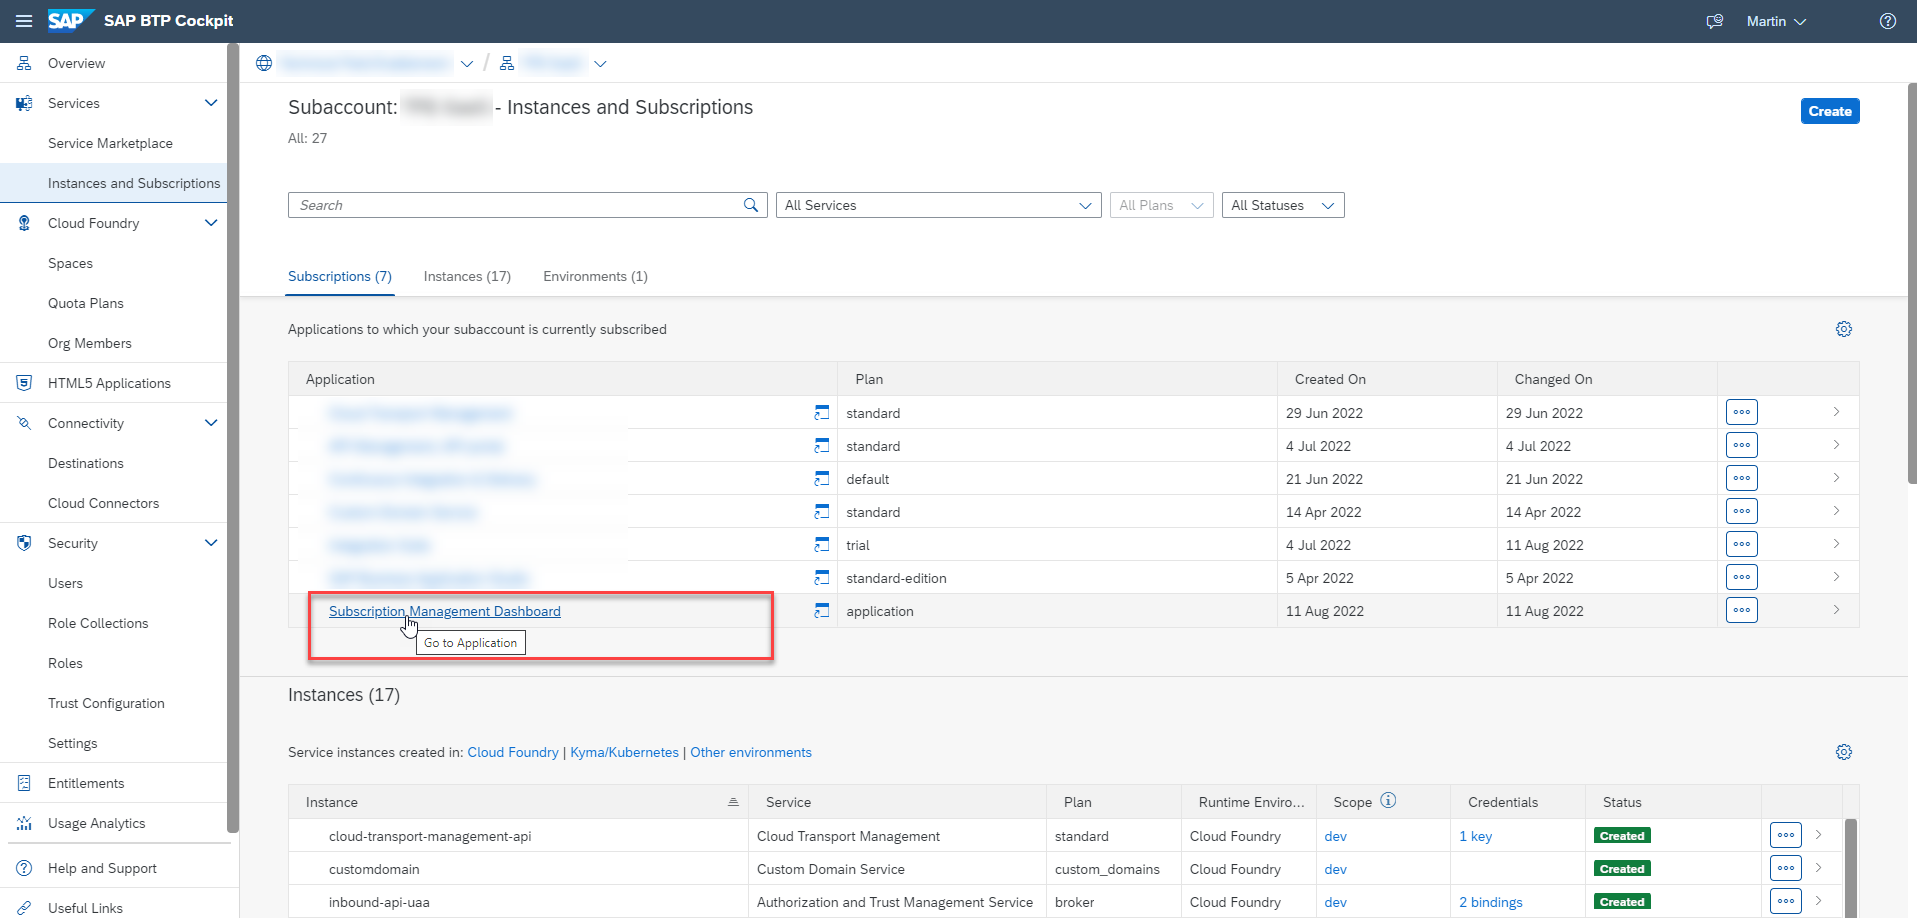
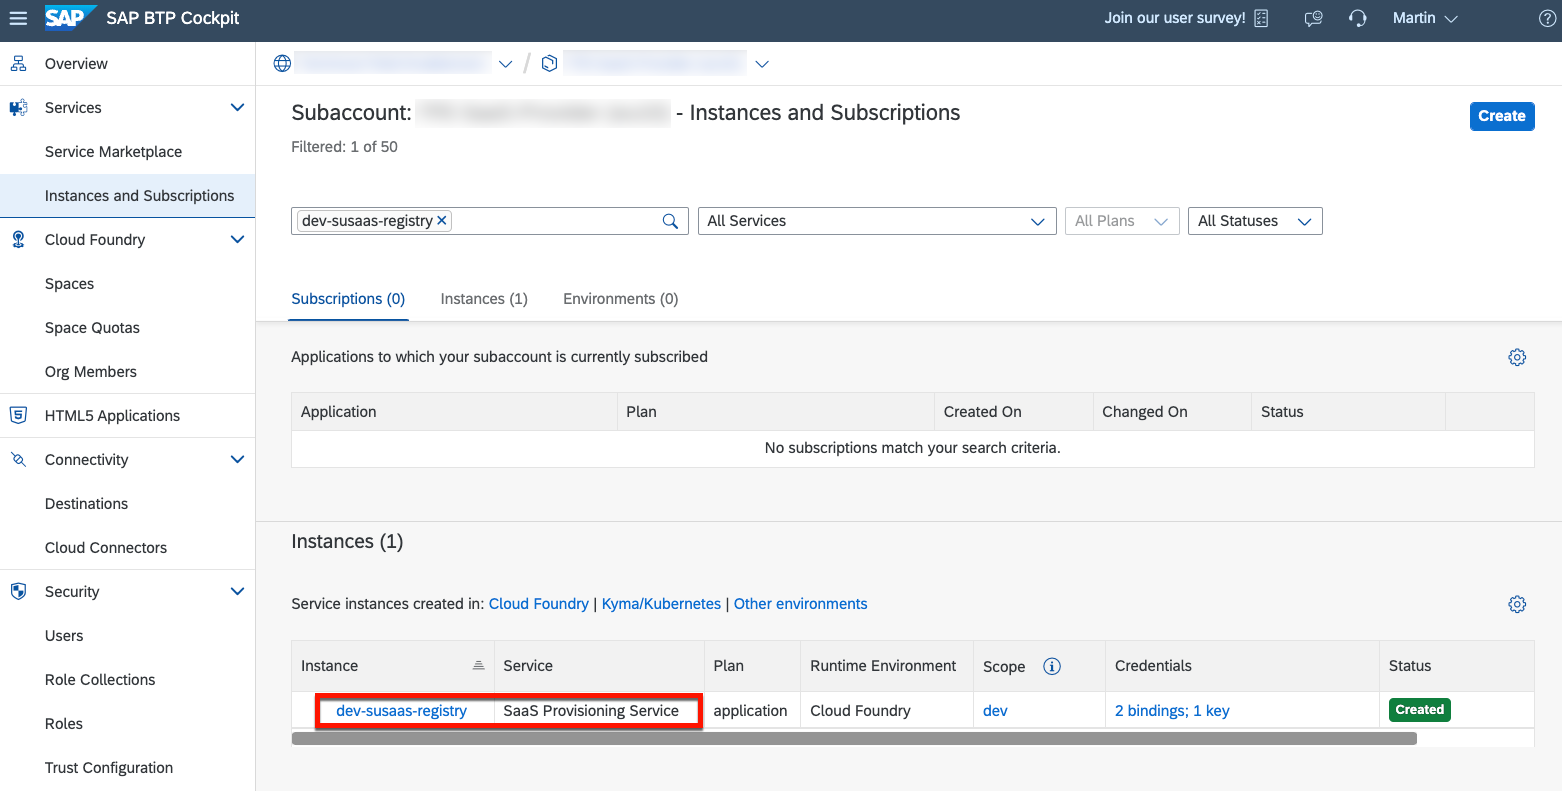
Update HDI expert chapters

diff --git a/docu/4-expert/backup-database-containers/README.md b/docu/4-expert/backup-database-containers/README.md
@@ -3,11 +3,9 @@
 - **Kyma** ✅
 - **Cloud Foundry** ✅
 
-> **Hint** - This Expert Feature requires refactoring and some screenshots and steps might be outdated. 
-
 This part of the **Expert Features** explains how to export and import SAP HANA Cloud HDI (HANA Deployment Infrastructure) containers in a SaaS scenario. This can be useful to back up your subscriber data on a regular basis. Please be aware that the import process will overwrite the content of your target container. For this reason also make sure, not to apply incompatible database changes between the backup and import of a container. 
 
-Before approaching this part of the **Expert Features**, please make sure to set up a new HDI Container Group Administrator first as described in the following part of the Expert Features ([Manage Tenant Database Containers](../manage-tenant-containers/README.md)) and use the respective user for the steps below.
+Before approaching this part of the **Expert Features**, please make sure to set up a new HDI Container Group Administrator first as described in the following part of the Expert Features ([HDI Container Administration](../hdi-container-administration/README.md)) and use the respective user for the steps below.
 
 - [Backup SAP HANA Cloud Database Containers](#backup-sap-hana-cloud-database-containers)
   - [1. Introduction](#1-introduction)
@@ -50,7 +48,7 @@ Especially for the last prerequisite, please check the [Dependencies and privile
 
 ## 3. Export an existing container
 
-3.1. Find the ID of the consumer tenant of which you want to export using the Subscription Management Dashboard.
+3.1. Find the ID of the consumer tenant of which you want to export using the SAP BTP Subscription Management Dashboard. Click on your SaaS Registry service instance to open the Dashboard. 
 
 [<img src="./images/export_010.png" width="500" />](./images/export_010.png?raw=true)
 
@@ -64,15 +62,26 @@ Especially for the last prerequisite, please check the [Dependencies and privile
 
 [<img src="./images/export_040.png" width="500" />](./images/export_040.png?raw=true)
 
-3.4. Go to SAP HANA Database Explorer and log in with an HDI Container (Group) Admin of the database container you want to export (see Prerequisites section). 
+3.4. Go to the **SAP HANA Database Explorer** and log in with an HDI Container (Group) Admin (e.g., **SUSAAS_OPS**) of the database container you want to export (see Prerequisites section). 
+
+> **Hint** - Go to your **SAP HANA Tools** to find the link to your **Database Explorer** by clicking on the **...** button next to your SAP HANA Cloud Instance. <br>
+> [<img src="./images/export_050a.png" width="200" />](./images/export_050a.png?raw=true)
 
 [<img src="./images/export_050.png" width="500" />](./images/export_050.png?raw=true)
 
+If you are already logged in with another user, please do a right-click on the root of your existing database connection and click on **Add database with different user**. This will allow you to define a new database connection (see screenshots). 
+
+[<img src="./images/add_conn_01.png" height="100" />](./images/add_conn_01.png?raw=true)
+[<img src="./images/add_conn_02.png" height="100" />](./images/add_conn_02.png?raw=true)
+[<img src="./images/add_conn_03.png" height="100" />](./images/add_conn_03.png?raw=true)
+
 3.5. Right-click the root of this user's database connection and select **Export HDI Container**. 
 
-[<img src="./images/export_060.png" width="500" />](./images/export_060.png?raw=true)
+[<img src="./images/export_060.png" width="200" />](./images/export_060.png?raw=true)
 
-3.6. Search for the schema name which you identified in the service key of the corresponding Service Manager container instance. 
+3.6. Select the **Local** export target and search for the schema name which you identified in the service key of the corresponding Service Manager container instance. 
+
+[<img src="./images/export_070a.png" width="500" />](./images/export_070a.png?raw=true) 
 
 [<img src="./images/export_070.png" width="500" />](./images/export_070.png?raw=true)
 
@@ -107,7 +116,7 @@ Especially for the last prerequisite, please check the [Dependencies and privile
 
 4.1. Go to SAP HANA Database Explorer and log in with an HDI Container (Group) Admin of the container you want to restore your backup in. 
 
-> **Important** - The database container in which you want to restore your backup, already has to exist before doing the following steps! Also, check the next chapter to learn about pre-import prerequisites in case of cross-container-access scenarios!
+> **Important** - The database container in which you want to restore your backup, already has to exist before doing the following steps! Also, check the next chapter ([click here](#5-dependencies-and-privileges)) to learn about pre-import prerequisites in case of cross-container-access scenarios!
 
 [<img src="./images/import_005.png" width="500" />](./images/import_005.png?raw=true)
 
@@ -115,7 +124,7 @@ Especially for the last prerequisite, please check the [Dependencies and privile
 
 [<img src="./images/import_010.png" width="500" />](./images/import_010.png?raw=true)
 
-4.3. Click on **Browse** to select the archived database container content from your hard disk.
+4.3. Select the **Local** Import Source and in the next step click on **Browse** to select the archived database container content from your hard disk.
 
 [<img src="./images/import_020.png" width="500" />](./images/import_020.png?raw=true)
 

diff --git a/docu/4-expert/manage-tenant-containers/README.md b/docu/4-expert/manage-tenant-containers/README.md
@@ -19,7 +19,7 @@ Please also check out the blog post by Andrew Lunde which is part of the **Furth
 
 The demonstrated approach explains how to access a tenant database container with a so-called technical **Runtime user**. This user has extensive permissions to interact with the underlying database schema and the presented access should only be used in very exceptional scenarios! This technical user is able to modify any data in a tenant container and to create and drop schema objects using plain SQL commands. 
 
-> **Hint** - If you want to adapt the permissions of this default access role assigned to Runtime users, please read the following SAP Help documentation ([click here](https://help.sap.com/docs/HANA_CLOUD_DATABASE/b9902c314aef4afb8f7a29bf8c5b37b3/9235c9dd8dbf410f915ffe305296a032.html?locale=en-US)). Please keep in mind, this will also restrict the permissions of the Runtime user used by the Service Manager when accessing the tenant database containers. 
+> **Hint** - If you want to adapt the permissions of this default access role assigned to Runtime users, please read the following SAP Help documentation ([click here](https://help.sap.com/docs/hana-cloud-database/sap-hana-cloud-sap-hana-database-developer-guide-for-cloud-foundry-multitarget-applications-sap-web-ide-full-stack/default-access-role-for-hdi-containers?locale=en-US)). Please keep in mind, this will also restrict the permissions of the Runtime user used by the Service Manager when accessing the tenant database containers. 
 
 No developer in a productive environment should ever have access to the credentials used in this step-by-step guide. This can be achieved by **not assigning** any Cloud Foundry roles like Space Developer/Supporter/Manager to developers in a productive subaccount. Instead, a very limited number of named database users should be used in combination with dedicated **support roles** provided by the database schema. 
 
@@ -52,7 +52,9 @@ Please use this approach for learning purposes only e.g., when working in a deve
 
 [<img src="./images/manage_040.png" width="500" />](./images/manage_040.png?raw=true)
 
-3.4. Switch to the SAP HANA Database Explorer to add the tenant database container connection.
+3.4. Switch to the SAP HANA Database Explorer to add the tenant database container connection. You can open the SAP HANA Database Explorer from the **SAP HANA Cloud Tools**.
+
+> **Hint** - You might be asked to login when opening the **Database Explorer**. Please use the **DBADMIN** or any other non-technical database user for this purpose. 
 
 [<img src="./images/manage_050.png" width="500" />](./images/manage_050.png?raw=true)
 
@@ -82,14 +84,6 @@ Please use this approach for learning purposes only e.g., when working in a deve
 4.5. You should now have access to all tables in the *shared database container/schema* and the *tenant database container/schema* of the bestrun tenant. You can use SQL commands or available user interface options to view table content, insert/delete/modify records or create and drop schema objects. 
 
 [<img src="./images/manage_090.png" width="200" />](./images/manage_090.png?raw=true)
-
-4.6. An alternative approach to access the tenant database container is displayed in the following screenshots using the Instance Type **Application Managed Service Instance**. Just make sure to select the correct Service Manager instance in the second dropdown.
-
-> **Hint** - Please be aware that you don't have direct access to the corresponding **shared database container/schema objects** using this approach. 
-
-[<img src="./images/manage_100.png" width="250" />](./images/manage_100.png?raw=true)
-[<img src="./images/manage_110.png" width="300" />](./images/manage_110.png?raw=true)
-
 
 ## 5. Further information
 

diff --git a/docu/4-expert/hdi-container-administration/README.md b/docu/4-expert/hdi-container-administration/README.md
@@ -3,8 +3,6 @@
 - **Kyma** ✅
 - **Cloud Foundry** ✅
 
-> **Hint** - This Expert Feature requires refactoring and some screenshots and steps might be outdated.
-
 In this part of the **Expert Features** you will learn how to set up a new HDI Container Group Administrator for your SaaS HDI containers. This user will be able to administrate Tenant database containers (e.g., create or import backups, use the HDI Container API, ...). 
 
 - [HDI Container Administration](#hdi-container-administration)
@@ -39,13 +37,11 @@ As a SaaS provider, you need to ensure this process is well aligned with your Sa
 
 ## 3. Login to SAP HANA Cloud Cockpit
 
-3.1. Go to the loud Foundry Space in which your SAP HANA Cloud instance resides. 
+3.1. Open the **SAP HANA Cloud** Tools in your **Instances and Subscriptions** menu. Ensure you assigned the respective **Role Collections** if you are facing any permissions errors. 
 
-3.2. Open the **additional actions** of the SAP HANA Cloud instance. 
+[<img src="./images/hdi_group_010.png" width="500" />](./images/hdi_group_020.png?raw=true)
 
-[<img src="./images/hdi_group_010.png" width="500" />](./images/hdi_group_010.png?raw=true)
-
-3.3. Click on **Open in SAP HANA Cockpit** to access the SAP HANA Cloud administration. 
+3.2. Open the **...** (additional actions) of your SAP HANA Cloud instance and select **Open in SAP HANA Cockpit** to access the SAP HANA Cloud administration. 
 
 [<img src="./images/hdi_group_020.png" width="500" />](./images/hdi_group_020.png?raw=true)
 
@@ -125,7 +121,7 @@ As a SaaS provider, you need to ensure this process is well aligned with your Sa
 
 > **Important** - This will assign your user the full scope of permissions to administrate all containers in this default Container Group. As mentioned in the beginning of this step-by-step guide, your security setup will probably require a much more granular permission handling! 
 
-> **Hint** - If you cannot see any values in the **dropdown field**, please assign the permissions manually. 
+> **Hint** - If you cannot see any values in the **dropdown field**, please assign the available privileges manually. 
 
 [<img src="./images/hdi_group_170.png" width="500" />](./images/hdi_group_170.png?raw=true)
 

diff --git a/docu/4-expert/update-tenant-containers/README.md b/docu/4-expert/update-tenant-containers/README.md
@@ -197,4 +197,4 @@ Content-type: application/json
 
 ## 8. Access your tenant container to see your changes
 
-The last step is accessing the tenant container as it is described [here](../manage-tenant-containers/README.md). You should see your **dummy** column added to the  **Users** table as shown below.
+The last step is accessing the tenant container as it is described [here](../manage-tenant-containers/README.md). You should see your **dummy** column was added to the  **Users** table.
